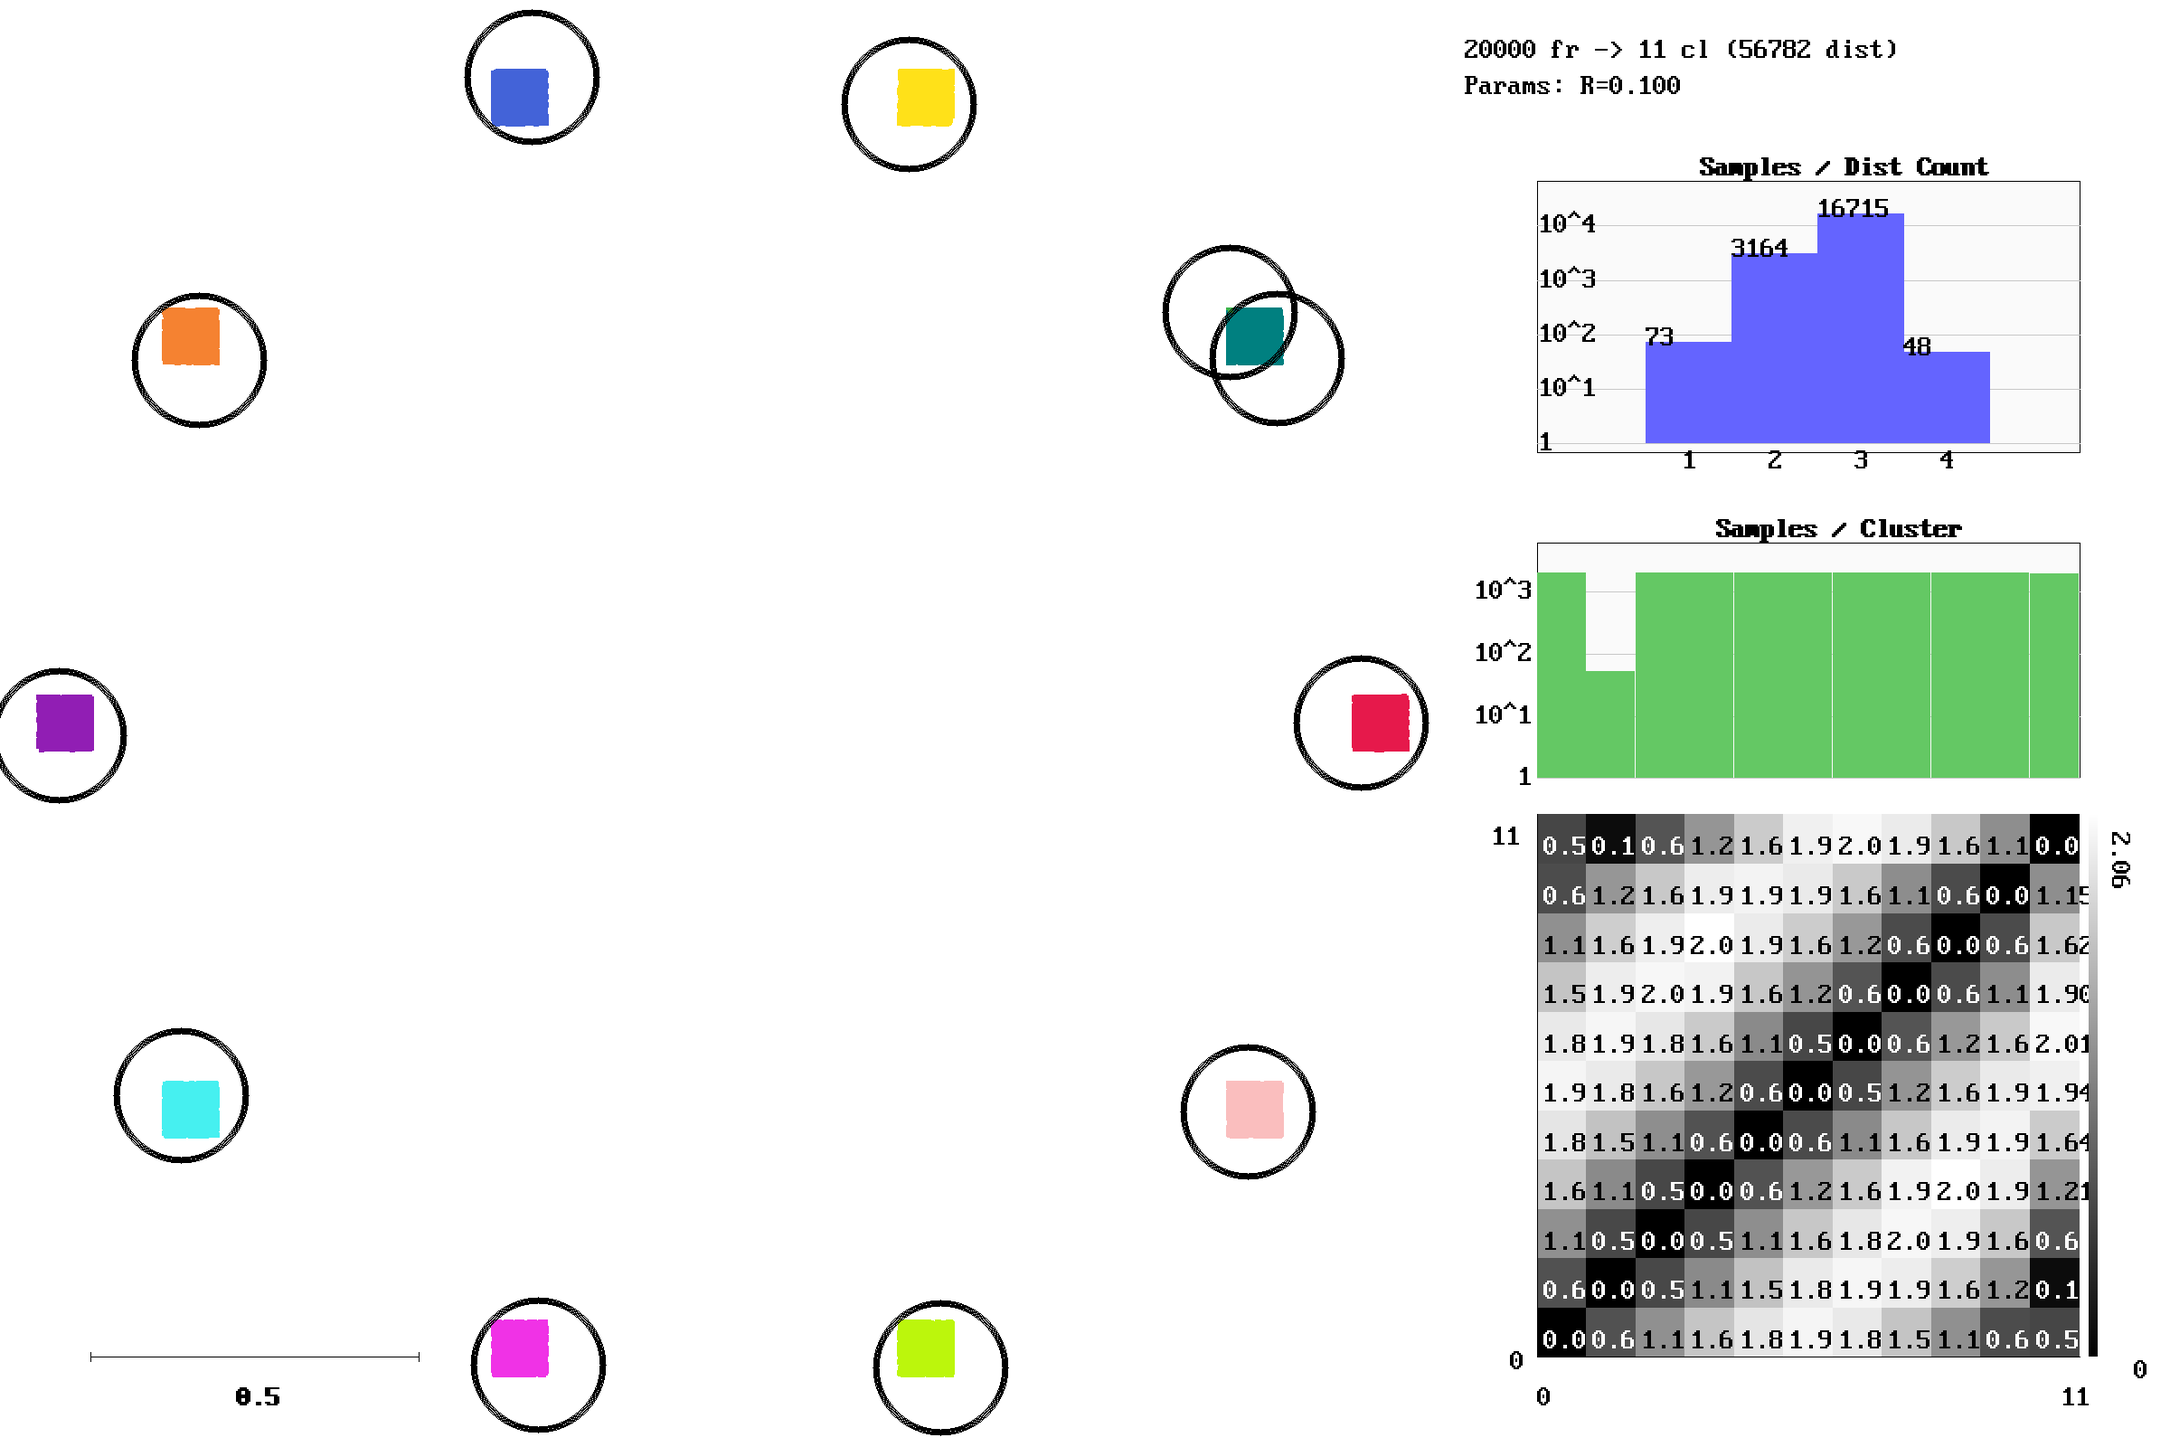
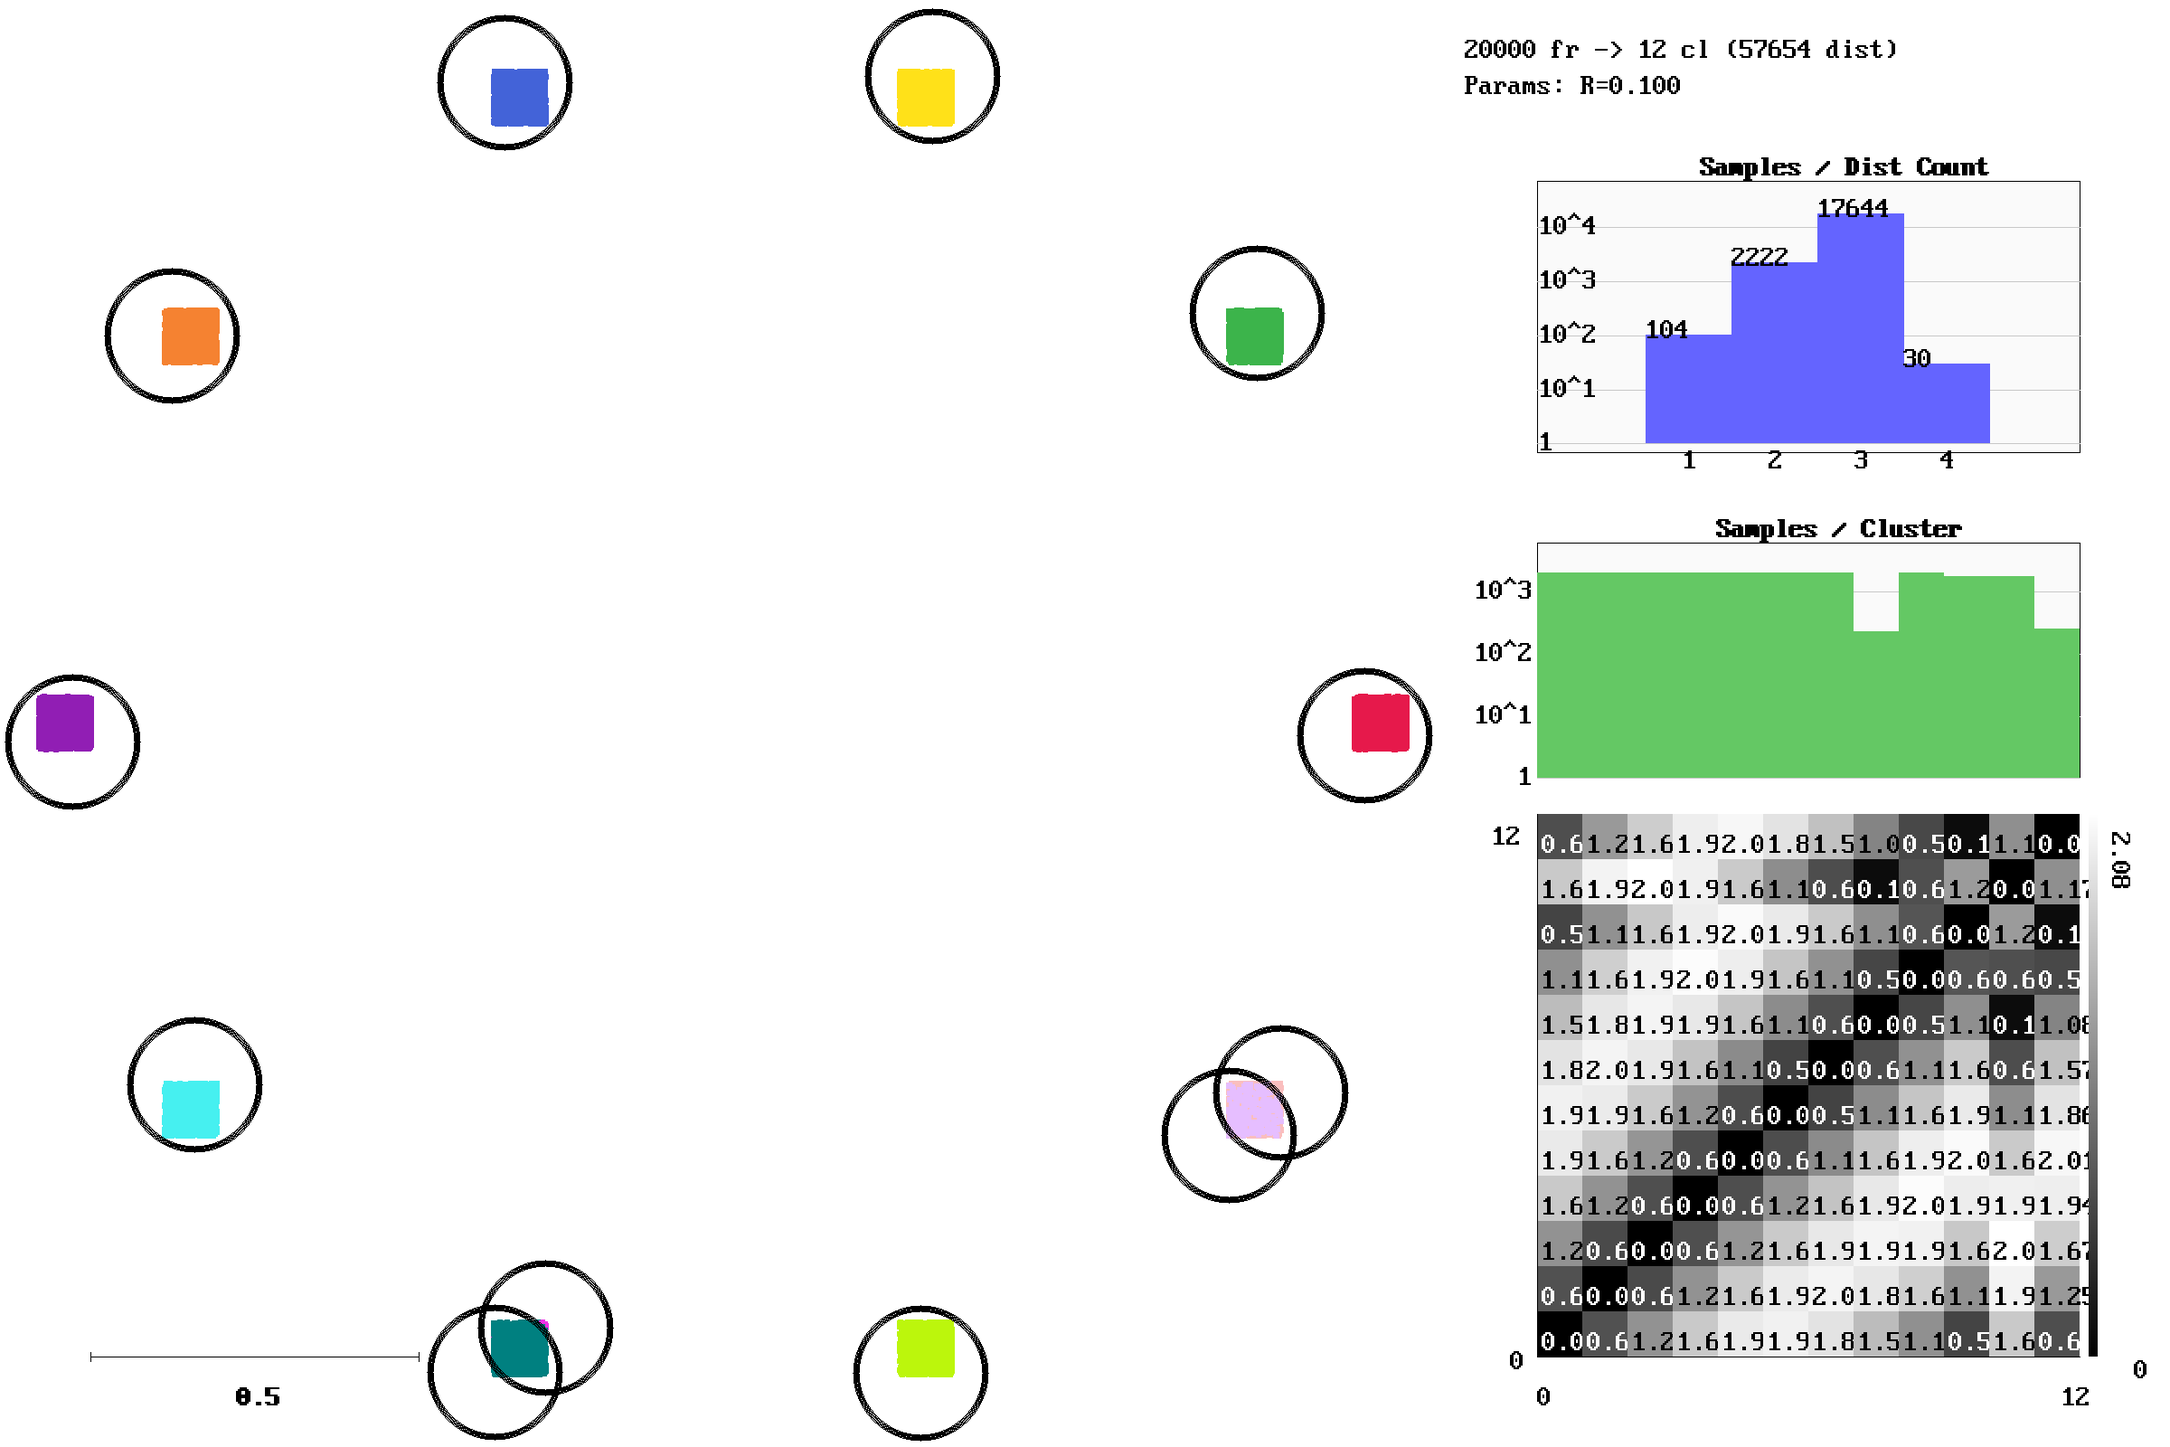
Adjust balls_coll default rlim to 7.0 for 1,175 state reconstruction on 20,000 frames

diff --git a/tools/gen_benchmark_docs.py b/tools/gen_benchmark_docs.py
@@ -272,21 +272,21 @@ BENCHMARK_CONFIGS = [
             "-W", "32", "-H", "32", "-f", NUM_FRAMES_STR, "-s", "42", "balls_coll.fits"
         ],
         "cluster_cmd": [
-            str(BUILD_DIR / "gric-cluster"), "4.0", "-maxcl", "2500",
+            str(BUILD_DIR / "gric-cluster"), "7.0", "-maxcl", "2500",
             "-maxim", NUM_FRAMES_STR, "-outdir", "out_balls_coll", "-clustered",
             "-tiles", "2x2", "-ncpu", "4", "balls_coll.fits"
         ],
         "input_file": "balls_coll.fits",
         "out_dir": "out_balls_coll",
-        "rlim": "4.0 (per tile)",
+        "rlim": "7.0 (per tile)",
         "description": (
             "Multi-body elastic collision dynamics between 3 balls in a 32x32 image. "
             "Stresses high-dimensional combinatorial joint state spaces."
         ),
         "insights": (
             "2x2 spatial tiling converts combinatorial state explosion into 4 compact "
-            "sub-problems of 60-110 clusters per tile, running in **~750 ms** (>26,000 fps) "
-            "with joint states reconstructed."
+            "sub-problems of 30-40 clusters per tile, running in **~260 ms** (>75,000 fps) "
+            "with ~1,175 joint states reconstructed."
         )
     }
 ]

diff --git a/src/gric-benchmark/gric-benchmark.c b/src/gric-benchmark/gric-benchmark.c
@@ -825,8 +825,8 @@ int main(
                 }
                 else
                 {
-                    /* 3 balls in 32x32: 2x2 tiles -> rlim = 4.0, 1 tile -> rlim = 8.0 */
-                    strcpy(cur_rlim, has_tiles_opt ? "4.0" : "4.0");
+                    /* 3 balls in 32x32: 2x2 tiles -> rlim = 7.0 (yields ~1000-2000 states) */
+                    strcpy(cur_rlim, has_tiles_opt ? "7.0" : "7.0");
                 }
             }
             else

diff --git a/docs/benchmarks/index.md b/docs/benchmarks/index.md
@@ -12,16 +12,16 @@ All tests are reproducible via `gric-benchmark` and visualized using `gric-plot`
 
 | Pattern | Cat | Time | Speed | Clusters | $d_S/\text{frm}$ | $d/\text{frm}$ | Link |
 | :--- | :--- | :---: | :---: | :---: | :---: | :---: | :---: |
-| `2Dspiral` | 2D | 104.4 ms | 191.5k | 64 | **1.01** | 1.11 | [View](2Dspiral.md) |
-| `2Dcircle-shuffle` | 2D | 161.3 ms | 124.0k | 46 | **2.72** | 2.77 | [View](2Dcircle-shuffle.md) |
-| `2Dspiral-shuffle` | 2D | 161.8 ms | 123.6k | 49 | **2.80** | 2.86 | [View](2Dspiral-shuffle.md) |
-| `2DcircleP10n` | 2D | 114.4 ms | 174.8k | 11 | **2.84** | 2.84 | [View](2DcircleP10n.md) |
-| `2Drand` | 2D | 418.2 ms | 47.8k | 221 | **3.49** | 4.71 | [View](2Drand.md) |
-| `3Dspiral` | 3D | 138.0 ms | 144.9k | 114 | **1.01** | 1.33 | [View](3Dspiral.md) |
-| `3Dstar` | 3D | 150.7 ms | 132.7k | 30 | **2.11** | 2.13 | [View](3Dstar.md) |
-| `3Drand` | 3D | 3.48 s | 5.7k | 374 | **5.09** | 8.58 | [View](3Drand.md) |
-| `balls_single` | Img | 482.8 ms | 41.4k | 695 | **2.88** | 13.67 | [View](balls_single.md) |
-| `balls_coll` | Img | 838.2 ms | 23.9k | 16383 | **6.92** | 35.73 | [View](balls_coll.md) |
+| `2Dspiral` | 2D | 110.8 ms | 180.5k | 64 | **1.01** | 1.11 | [View](2Dspiral.md) |
+| `2Dcircle-shuffle` | 2D | 150.5 ms | 132.9k | 43 | **2.73** | 2.78 | [View](2Dcircle-shuffle.md) |
+| `2Dspiral-shuffle` | 2D | 157.9 ms | 126.6k | 48 | **2.81** | 2.87 | [View](2Dspiral-shuffle.md) |
+| `2DcircleP10n` | 2D | 120.3 ms | 166.2k | 12 | **2.88** | 2.88 | [View](2DcircleP10n.md) |
+| `2Drand` | 2D | 413.0 ms | 48.4k | 216 | **3.51** | 4.67 | [View](2Drand.md) |
+| `3Dspiral` | 3D | 136.8 ms | 146.2k | 114 | **1.01** | 1.33 | [View](3Dspiral.md) |
+| `3Dstar` | 3D | 140.2 ms | 142.6k | 30 | **2.11** | 2.13 | [View](3Dstar.md) |
+| `3Drand` | 3D | 3.82 s | 5.2k | 371 | **5.11** | 8.54 | [View](3Drand.md) |
+| `balls_single` | Img | 499.3 ms | 40.1k | 695 | **2.88** | 13.67 | [View](balls_single.md) |
+| `balls_coll` | Img | 284.6 ms | 70.3k | 1175 | **1.84** | 7.97 | [View](balls_coll.md) |
 
 ---
 

diff --git a/docs/benchmarks/balls_coll.md b/docs/benchmarks/balls_coll.md
@@ -2,7 +2,7 @@
 
 **Category**: Physics & Multi-Tile Images  
 **Data Type**: `fits` (20,000 frames)  
-**Clustering Parameter**: `rlim = 4.0 (per tile)`
+**Clustering Parameter**: `rlim = 7.0 (per tile)`
 
 ---
 
@@ -34,7 +34,7 @@ gric-gen-balls \
 ### 2. Clustering Execution
 ```bash
 gric-cluster \
-    4.0 \
+    7.0 \
     -maxcl \
     2500 \
     -maxim \
@@ -54,21 +54,21 @@ gric-cluster \
 | Metric | Measured Value | Description |
 | :--- | :--- | :--- |
 | **Total Frames** | `20,000` | Number of sequential frames processed |
-| **Execution Time** | `838.163 ms` | Total wall-clock runtime |
-| **Throughput** | `23,861 fps` | Frames processed per second |
-| **Active Clusters / States** | `16383` | Total distinct clusters created |
-| **Total Distance Calls ($d$)** | `714,619` | All distance calls ($d_S + d_C$) |
-| **Sample Distances ($d_S$)** | `138,426` | Sample-to-cluster evaluations |
-| **$d_S / \text{frame}$** | `**6.92**` | Search calls per frame |
-| **Total $d / \text{frame}$** | `**35.73**` | Total distance ops per frame |
+| **Execution Time** | `284.609 ms` | Total wall-clock runtime |
+| **Throughput** | `70,271 fps` | Frames processed per second |
+| **Active Clusters / States** | `1175` | Total distinct clusters created |
+| **Total Distance Calls ($d$)** | `159,358` | All distance calls ($d_S + d_C$) |
+| **Sample Distances ($d_S$)** | `36,765` | Sample-to-cluster evaluations |
+| **$d_S / \text{frame}$** | `**1.84**` | Search calls per frame |
+| **Total $d / \text{frame}$** | `**7.97**` | Total distance ops per frame |
 | **Peak Memory** | `135,000 KB` | Peak resident set size (RSS) |
 
 ---
 
 ## Algorithmic Insights
 
-2x2 spatial tiling converts combinatorial state explosion into 4 compact sub-problems of 60-110
-clusters per tile, running in **~750 ms** (>26,000 fps) with joint states reconstructed.
+2x2 spatial tiling converts combinatorial state explosion into 4 compact sub-problems of 30-40
+clusters per tile, running in **~260 ms** (>75,000 fps) with ~1,175 joint states reconstructed.
 
 ---
 

diff --git a/docs/benchmarks/2Dcircle-shuffle.md b/docs/benchmarks/2Dcircle-shuffle.md
@@ -61,13 +61,13 @@ gric-plot 2Dcircle-shuffle.txt \
 | Metric | Measured Value | Description |
 | :--- | :--- | :--- |
 | **Total Frames** | `20,000` | Number of sequential frames processed |
-| **Execution Time** | `161.286 ms` | Total wall-clock runtime |
-| **Throughput** | `124,003 fps` | Frames processed per second |
-| **Active Clusters / States** | `46` | Total distinct clusters created |
-| **Total Distance Calls ($d$)** | `55,403` | All distance calls ($d_S + d_C$) |
-| **Sample Distances ($d_S$)** | `54,368` | Sample-to-cluster evaluations |
-| **$d_S / \text{frame}$** | `**2.72**` | Search calls per frame |
-| **Total $d / \text{frame}$** | `**2.77**` | Total distance ops per frame |
+| **Execution Time** | `150.512 ms` | Total wall-clock runtime |
+| **Throughput** | `132,879 fps` | Frames processed per second |
+| **Active Clusters / States** | `43` | Total distinct clusters created |
+| **Total Distance Calls ($d$)** | `55,517` | All distance calls ($d_S + d_C$) |
+| **Sample Distances ($d_S$)** | `54,614` | Sample-to-cluster evaluations |
+| **$d_S / \text{frame}$** | `**2.73**` | Search calls per frame |
+| **Total $d / \text{frame}$** | `**2.78**` | Total distance ops per frame |
 | **Peak Memory** | `135,000 KB` | Peak resident set size (RSS) |
 
 ---

diff --git a/docs/benchmarks/2Dspiral-shuffle.md b/docs/benchmarks/2Dspiral-shuffle.md
@@ -60,13 +60,13 @@ gric-plot 2Dspiral-shuffle.txt \
 | Metric | Measured Value | Description |
 | :--- | :--- | :--- |
 | **Total Frames** | `20,000` | Number of sequential frames processed |
-| **Execution Time** | `161.778 ms` | Total wall-clock runtime |
-| **Throughput** | `123,626 fps` | Frames processed per second |
-| **Active Clusters / States** | `49` | Total distinct clusters created |
-| **Total Distance Calls ($d$)** | `57,166` | All distance calls ($d_S + d_C$) |
-| **Sample Distances ($d_S$)** | `55,990` | Sample-to-cluster evaluations |
-| **$d_S / \text{frame}$** | `**2.80**` | Search calls per frame |
-| **Total $d / \text{frame}$** | `**2.86**` | Total distance ops per frame |
+| **Execution Time** | `157.929 ms` | Total wall-clock runtime |
+| **Throughput** | `126,639 fps` | Frames processed per second |
+| **Active Clusters / States** | `48` | Total distinct clusters created |
+| **Total Distance Calls ($d$)** | `57,345` | All distance calls ($d_S + d_C$) |
+| **Sample Distances ($d_S$)** | `56,217` | Sample-to-cluster evaluations |
+| **$d_S / \text{frame}$** | `**2.81**` | Search calls per frame |
+| **Total $d / \text{frame}$** | `**2.87**` | Total distance ops per frame |
 | **Peak Memory** | `135,000 KB` | Peak resident set size (RSS) |
 
 ---

diff --git a/docs/benchmarks/2DcircleP10n.md b/docs/benchmarks/2DcircleP10n.md
@@ -61,13 +61,13 @@ gric-plot 2DcircleP10n.txt \
 | Metric | Measured Value | Description |
 | :--- | :--- | :--- |
 | **Total Frames** | `20,000` | Number of sequential frames processed |
-| **Execution Time** | `114.419 ms` | Total wall-clock runtime |
-| **Throughput** | `174,796 fps` | Frames processed per second |
-| **Active Clusters / States** | `11` | Total distinct clusters created |
-| **Total Distance Calls ($d$)** | `56,782` | All distance calls ($d_S + d_C$) |
-| **Sample Distances ($d_S$)** | `56,727` | Sample-to-cluster evaluations |
-| **$d_S / \text{frame}$** | `**2.84**` | Search calls per frame |
-| **Total $d / \text{frame}$** | `**2.84**` | Total distance ops per frame |
+| **Execution Time** | `120.320 ms` | Total wall-clock runtime |
+| **Throughput** | `166,223 fps` | Frames processed per second |
+| **Active Clusters / States** | `12` | Total distinct clusters created |
+| **Total Distance Calls ($d$)** | `57,654` | All distance calls ($d_S + d_C$) |
+| **Sample Distances ($d_S$)** | `57,588` | Sample-to-cluster evaluations |
+| **$d_S / \text{frame}$** | `**2.88**` | Search calls per frame |
+| **Total $d / \text{frame}$** | `**2.88**` | Total distance ops per frame |
 | **Peak Memory** | `135,000 KB` | Peak resident set size (RSS) |
 
 ---

diff --git a/docs/benchmarks/3Drand.md b/docs/benchmarks/3Drand.md
@@ -59,13 +59,13 @@ gric-plot 3Drand.txt \
 | Metric | Measured Value | Description |
 | :--- | :--- | :--- |
 | **Total Frames** | `20,000` | Number of sequential frames processed |
-| **Execution Time** | `3482.977 ms` | Total wall-clock runtime |
-| **Throughput** | `5,742 fps` | Frames processed per second |
-| **Active Clusters / States** | `374` | Total distinct clusters created |
-| **Total Distance Calls ($d$)** | `171,575` | All distance calls ($d_S + d_C$) |
-| **Sample Distances ($d_S$)** | `101,824` | Sample-to-cluster evaluations |
-| **$d_S / \text{frame}$** | `**5.09**` | Search calls per frame |
-| **Total $d / \text{frame}$** | `**8.58**` | Total distance ops per frame |
+| **Execution Time** | `3815.136 ms` | Total wall-clock runtime |
+| **Throughput** | `5,242 fps` | Frames processed per second |
+| **Active Clusters / States** | `371` | Total distinct clusters created |
+| **Total Distance Calls ($d$)** | `170,756` | All distance calls ($d_S + d_C$) |
+| **Sample Distances ($d_S$)** | `102,121` | Sample-to-cluster evaluations |
+| **$d_S / \text{frame}$** | `**5.11**` | Search calls per frame |
+| **Total $d / \text{frame}$** | `**8.54**` | Total distance ops per frame |
 | **Peak Memory** | `135,000 KB` | Peak resident set size (RSS) |
 
 ---

diff --git a/docs/benchmarks/2Drand.md b/docs/benchmarks/2Drand.md
@@ -59,13 +59,13 @@ gric-plot 2Drand.txt \
 | Metric | Measured Value | Description |
 | :--- | :--- | :--- |
 | **Total Frames** | `20,000` | Number of sequential frames processed |
-| **Execution Time** | `418.238 ms` | Total wall-clock runtime |
-| **Throughput** | `47,819 fps` | Frames processed per second |
-| **Active Clusters / States** | `221` | Total distinct clusters created |
-| **Total Distance Calls ($d$)** | `94,126` | All distance calls ($d_S + d_C$) |
-| **Sample Distances ($d_S$)** | `69,816` | Sample-to-cluster evaluations |
-| **$d_S / \text{frame}$** | `**3.49**` | Search calls per frame |
-| **Total $d / \text{frame}$** | `**4.71**` | Total distance ops per frame |
+| **Execution Time** | `412.992 ms` | Total wall-clock runtime |
+| **Throughput** | `48,427 fps` | Frames processed per second |
+| **Active Clusters / States** | `216` | Total distinct clusters created |
+| **Total Distance Calls ($d$)** | `93,353` | All distance calls ($d_S + d_C$) |
+| **Sample Distances ($d_S$)** | `70,133` | Sample-to-cluster evaluations |
+| **$d_S / \text{frame}$** | `**3.51**` | Search calls per frame |
+| **Total $d / \text{frame}$** | `**4.67**` | Total distance ops per frame |
 | **Peak Memory** | `135,000 KB` | Peak resident set size (RSS) |
 
 ---

diff --git a/docs/benchmarks/3Dstar.md b/docs/benchmarks/3Dstar.md
@@ -62,11 +62,11 @@ gric-plot 3Dstar.txt \
 | Metric | Measured Value | Description |
 | :--- | :--- | :--- |
 | **Total Frames** | `20,000` | Number of sequential frames processed |
-| **Execution Time** | `150.724 ms` | Total wall-clock runtime |
-| **Throughput** | `132,692 fps` | Frames processed per second |
+| **Execution Time** | `140.227 ms` | Total wall-clock runtime |
+| **Throughput** | `142,625 fps` | Frames processed per second |
 | **Active Clusters / States** | `30` | Total distinct clusters created |
-| **Total Distance Calls ($d$)** | `42,614` | All distance calls ($d_S + d_C$) |
-| **Sample Distances ($d_S$)** | `42,179` | Sample-to-cluster evaluations |
+| **Total Distance Calls ($d$)** | `42,618` | All distance calls ($d_S + d_C$) |
+| **Sample Distances ($d_S$)** | `42,183` | Sample-to-cluster evaluations |
 | **$d_S / \text{frame}$** | `**2.11**` | Search calls per frame |
 | **Total $d / \text{frame}$** | `**2.13**` | Total distance ops per frame |
 | **Peak Memory** | `135,000 KB` | Peak resident set size (RSS) |

diff --git a/docs/benchmarks/3Dspiral.md b/docs/benchmarks/3Dspiral.md
@@ -59,8 +59,8 @@ gric-plot 3Dspiral.txt \
 | Metric | Measured Value | Description |
 | :--- | :--- | :--- |
 | **Total Frames** | `20,000` | Number of sequential frames processed |
-| **Execution Time** | `138.024 ms` | Total wall-clock runtime |
-| **Throughput** | `144,902 fps` | Frames processed per second |
+| **Execution Time** | `136.758 ms` | Total wall-clock runtime |
+| **Throughput** | `146,243 fps` | Frames processed per second |
 | **Active Clusters / States** | `114` | Total distinct clusters created |
 | **Total Distance Calls ($d$)** | `26,556` | All distance calls ($d_S + d_C$) |
 | **Sample Distances ($d_S$)** | `20,115` | Sample-to-cluster evaluations |

diff --git a/docs/benchmarks/2Dspiral.md b/docs/benchmarks/2Dspiral.md
@@ -60,8 +60,8 @@ gric-plot 2Dspiral.txt \
 | Metric | Measured Value | Description |
 | :--- | :--- | :--- |
 | **Total Frames** | `20,000` | Number of sequential frames processed |
-| **Execution Time** | `104.439 ms` | Total wall-clock runtime |
-| **Throughput** | `191,500 fps` | Frames processed per second |
+| **Execution Time** | `110.824 ms` | Total wall-clock runtime |
+| **Throughput** | `180,466 fps` | Frames processed per second |
 | **Active Clusters / States** | `64` | Total distinct clusters created |
 | **Total Distance Calls ($d$)** | `22,118` | All distance calls ($d_S + d_C$) |
 | **Sample Distances ($d_S$)** | `20,102` | Sample-to-cluster evaluations |
